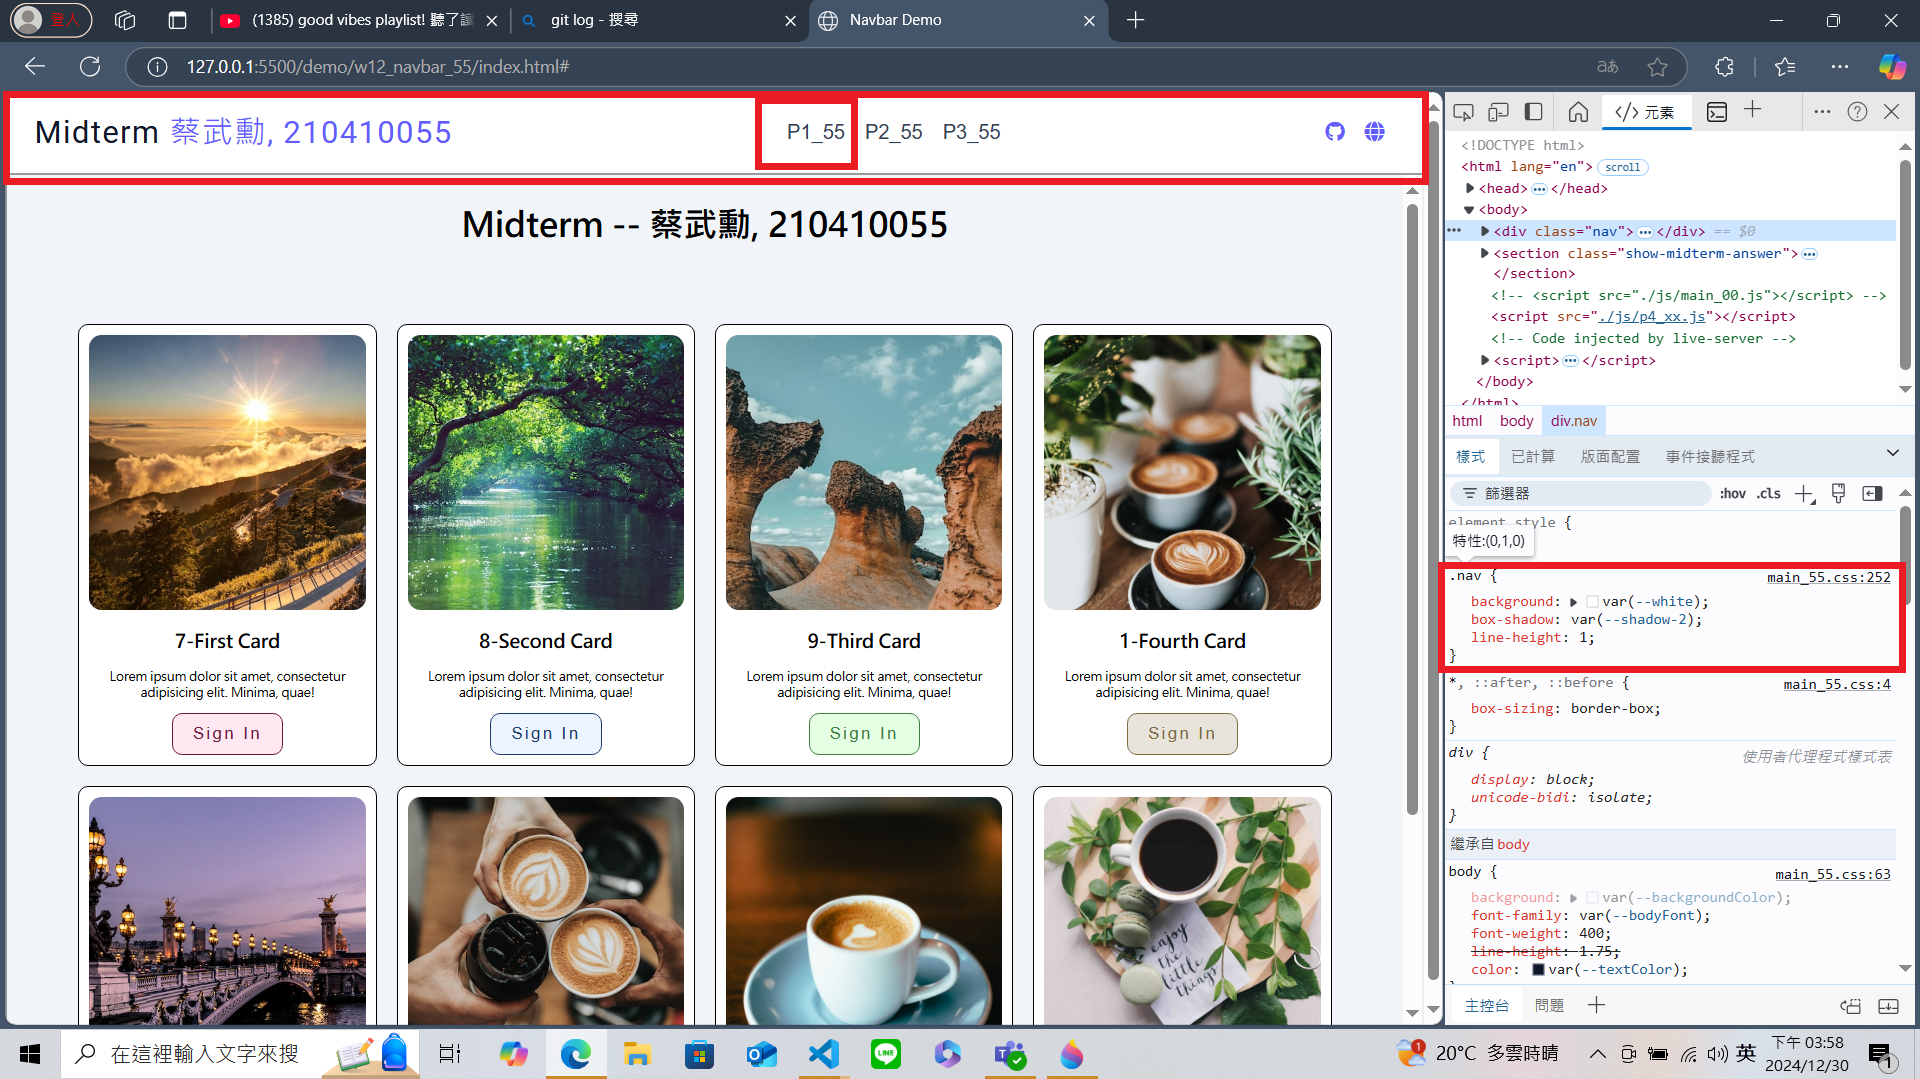
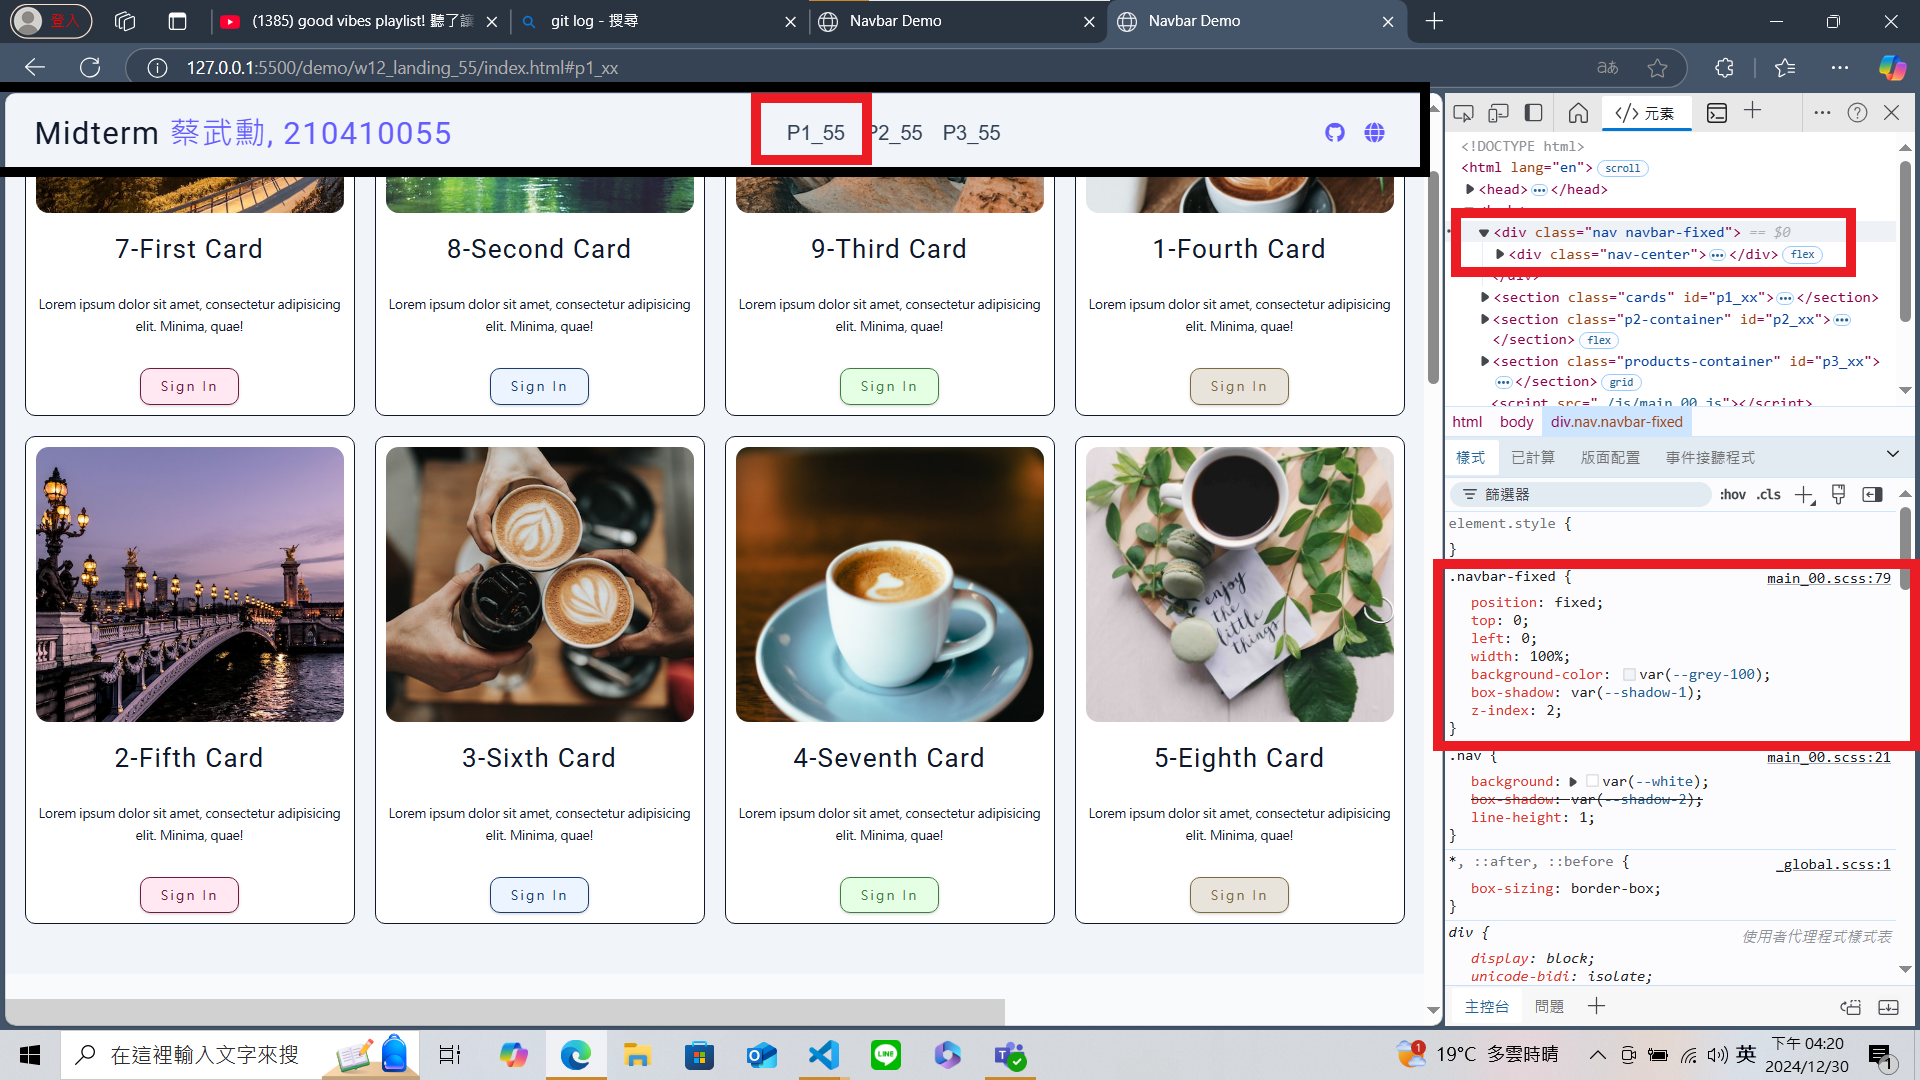
W12-P2: Embed p1_xx, p2_xx, p3_xx content into index.html, and make it to work correctly

diff --git a/demo/md/w12_navbar_00/w12_55.md b/demo/md/w12_navbar_00/w12_55.md
@@ -50,8 +50,8 @@
 
 ```
 $ git log --pretty=format:"%h%x09%an%x09%ad%x09%s" --after="2024-11-29"
-59d190b thl010521       Sat Nov 30 23:21:22 2024 +0800  W12-P2: Embed p1_xx, p2_xx, p3_xx content into index.html, and make it to work correctly
-a36215b thl010521       Sat Nov 30 23:15:20 2024 +0800  W12-P1: Show annser of p1_xx, p2_xx, p3_xx in midterm exam
+fe683c4 210410055       Mon Dec 30 16:16:46 2024 +0800  W12-P2: Embed p1_xx, p2_xx, p3_xx content into index.html, and make it to work correctly
+8494b0b 210410055       Mon Dec 30 16:10:52 2024 +0800  W12-P1: Show annser of p1_xx, p2_xx, p3_xx in midterm exam
 a95f5a7 thl010521       Sat Nov 30 23:13:41 2024 +0800  w12 navbar & landing code and md
 
 
